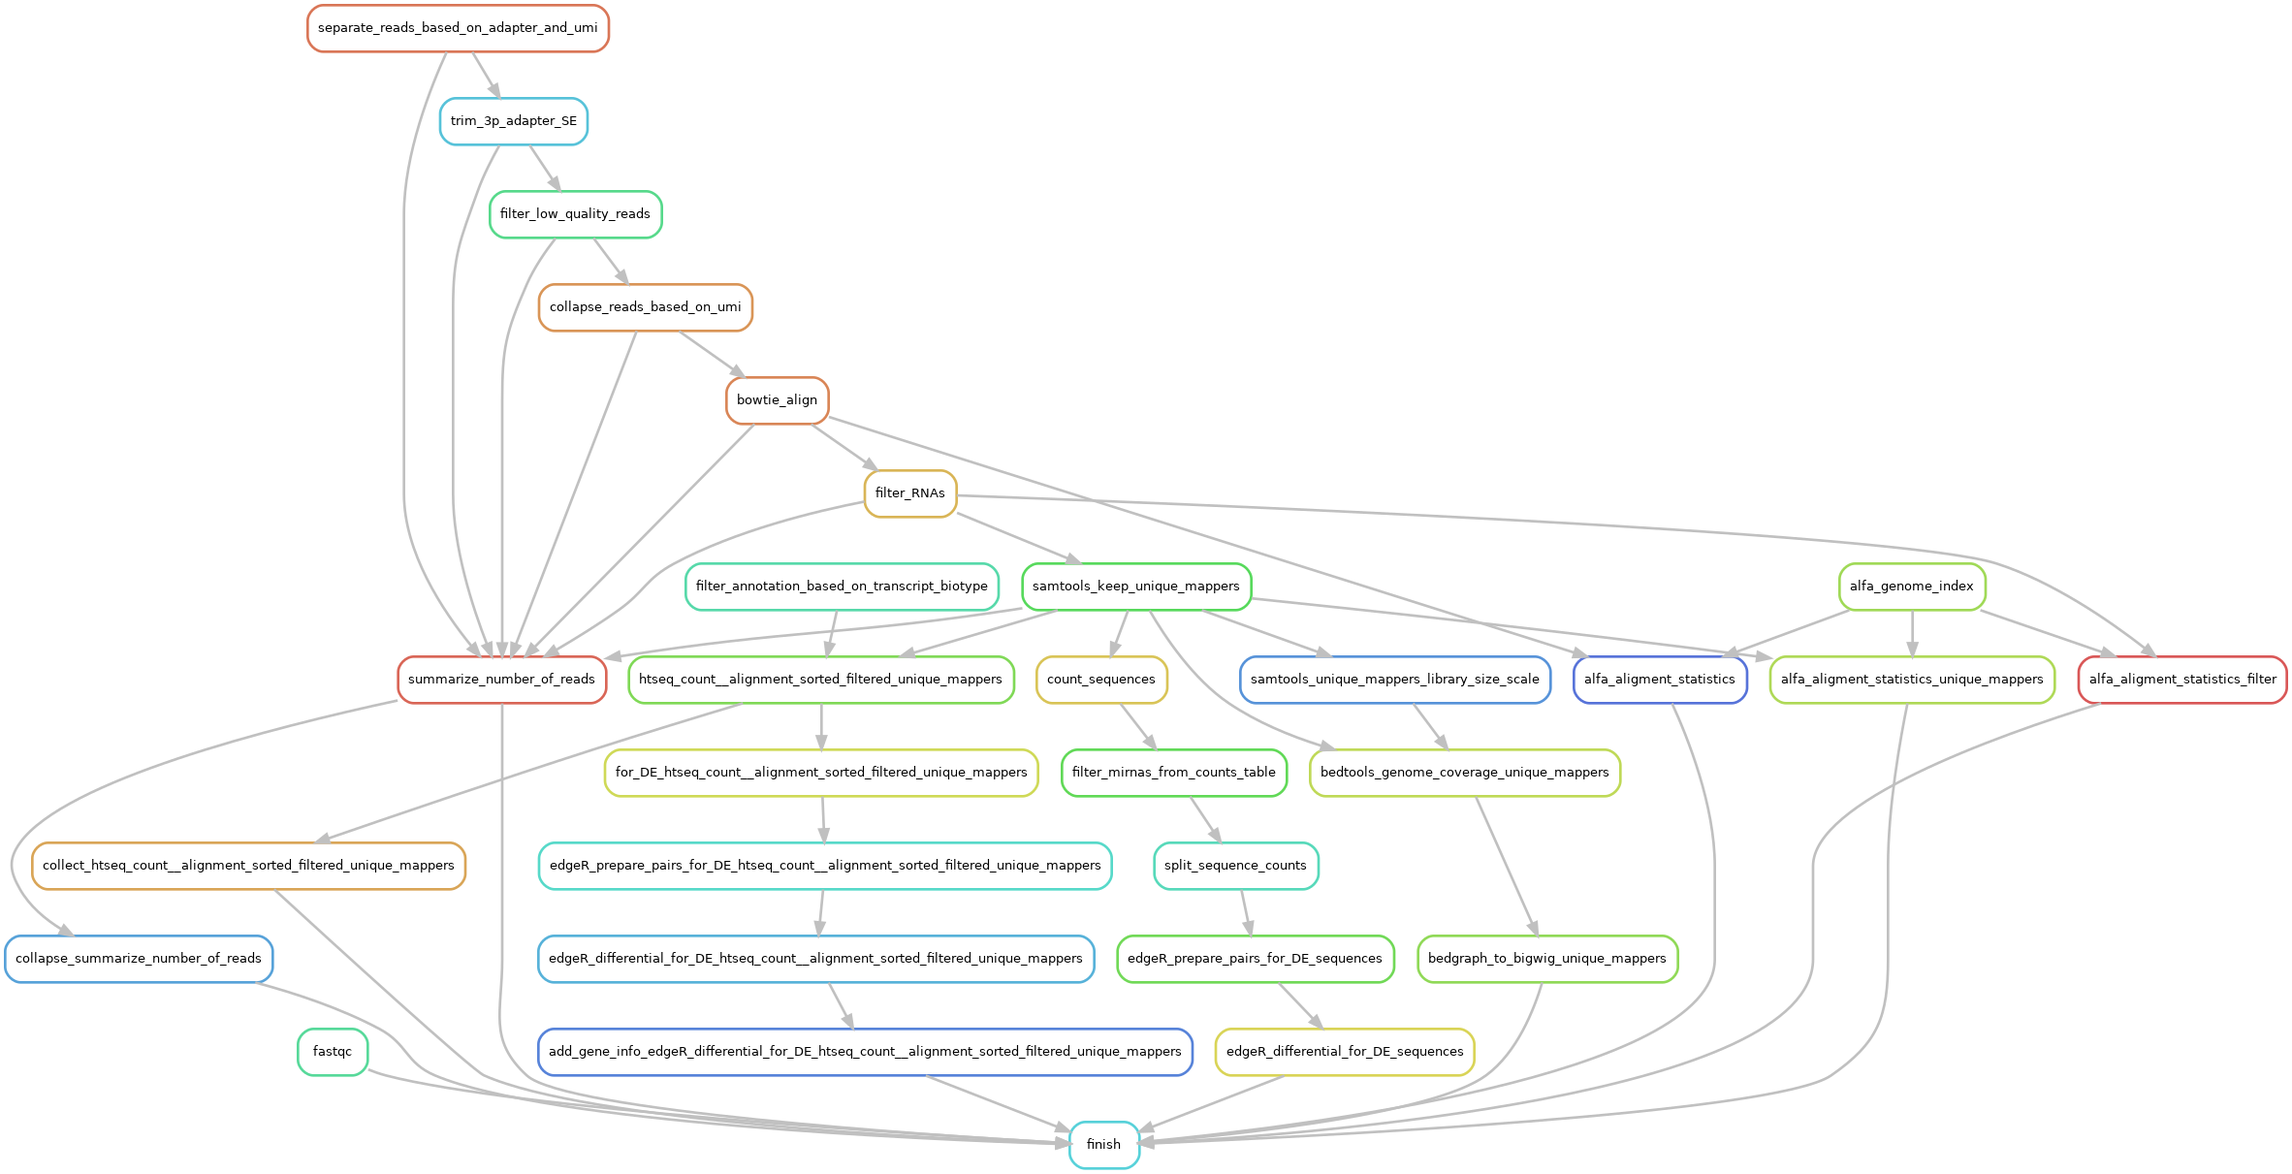
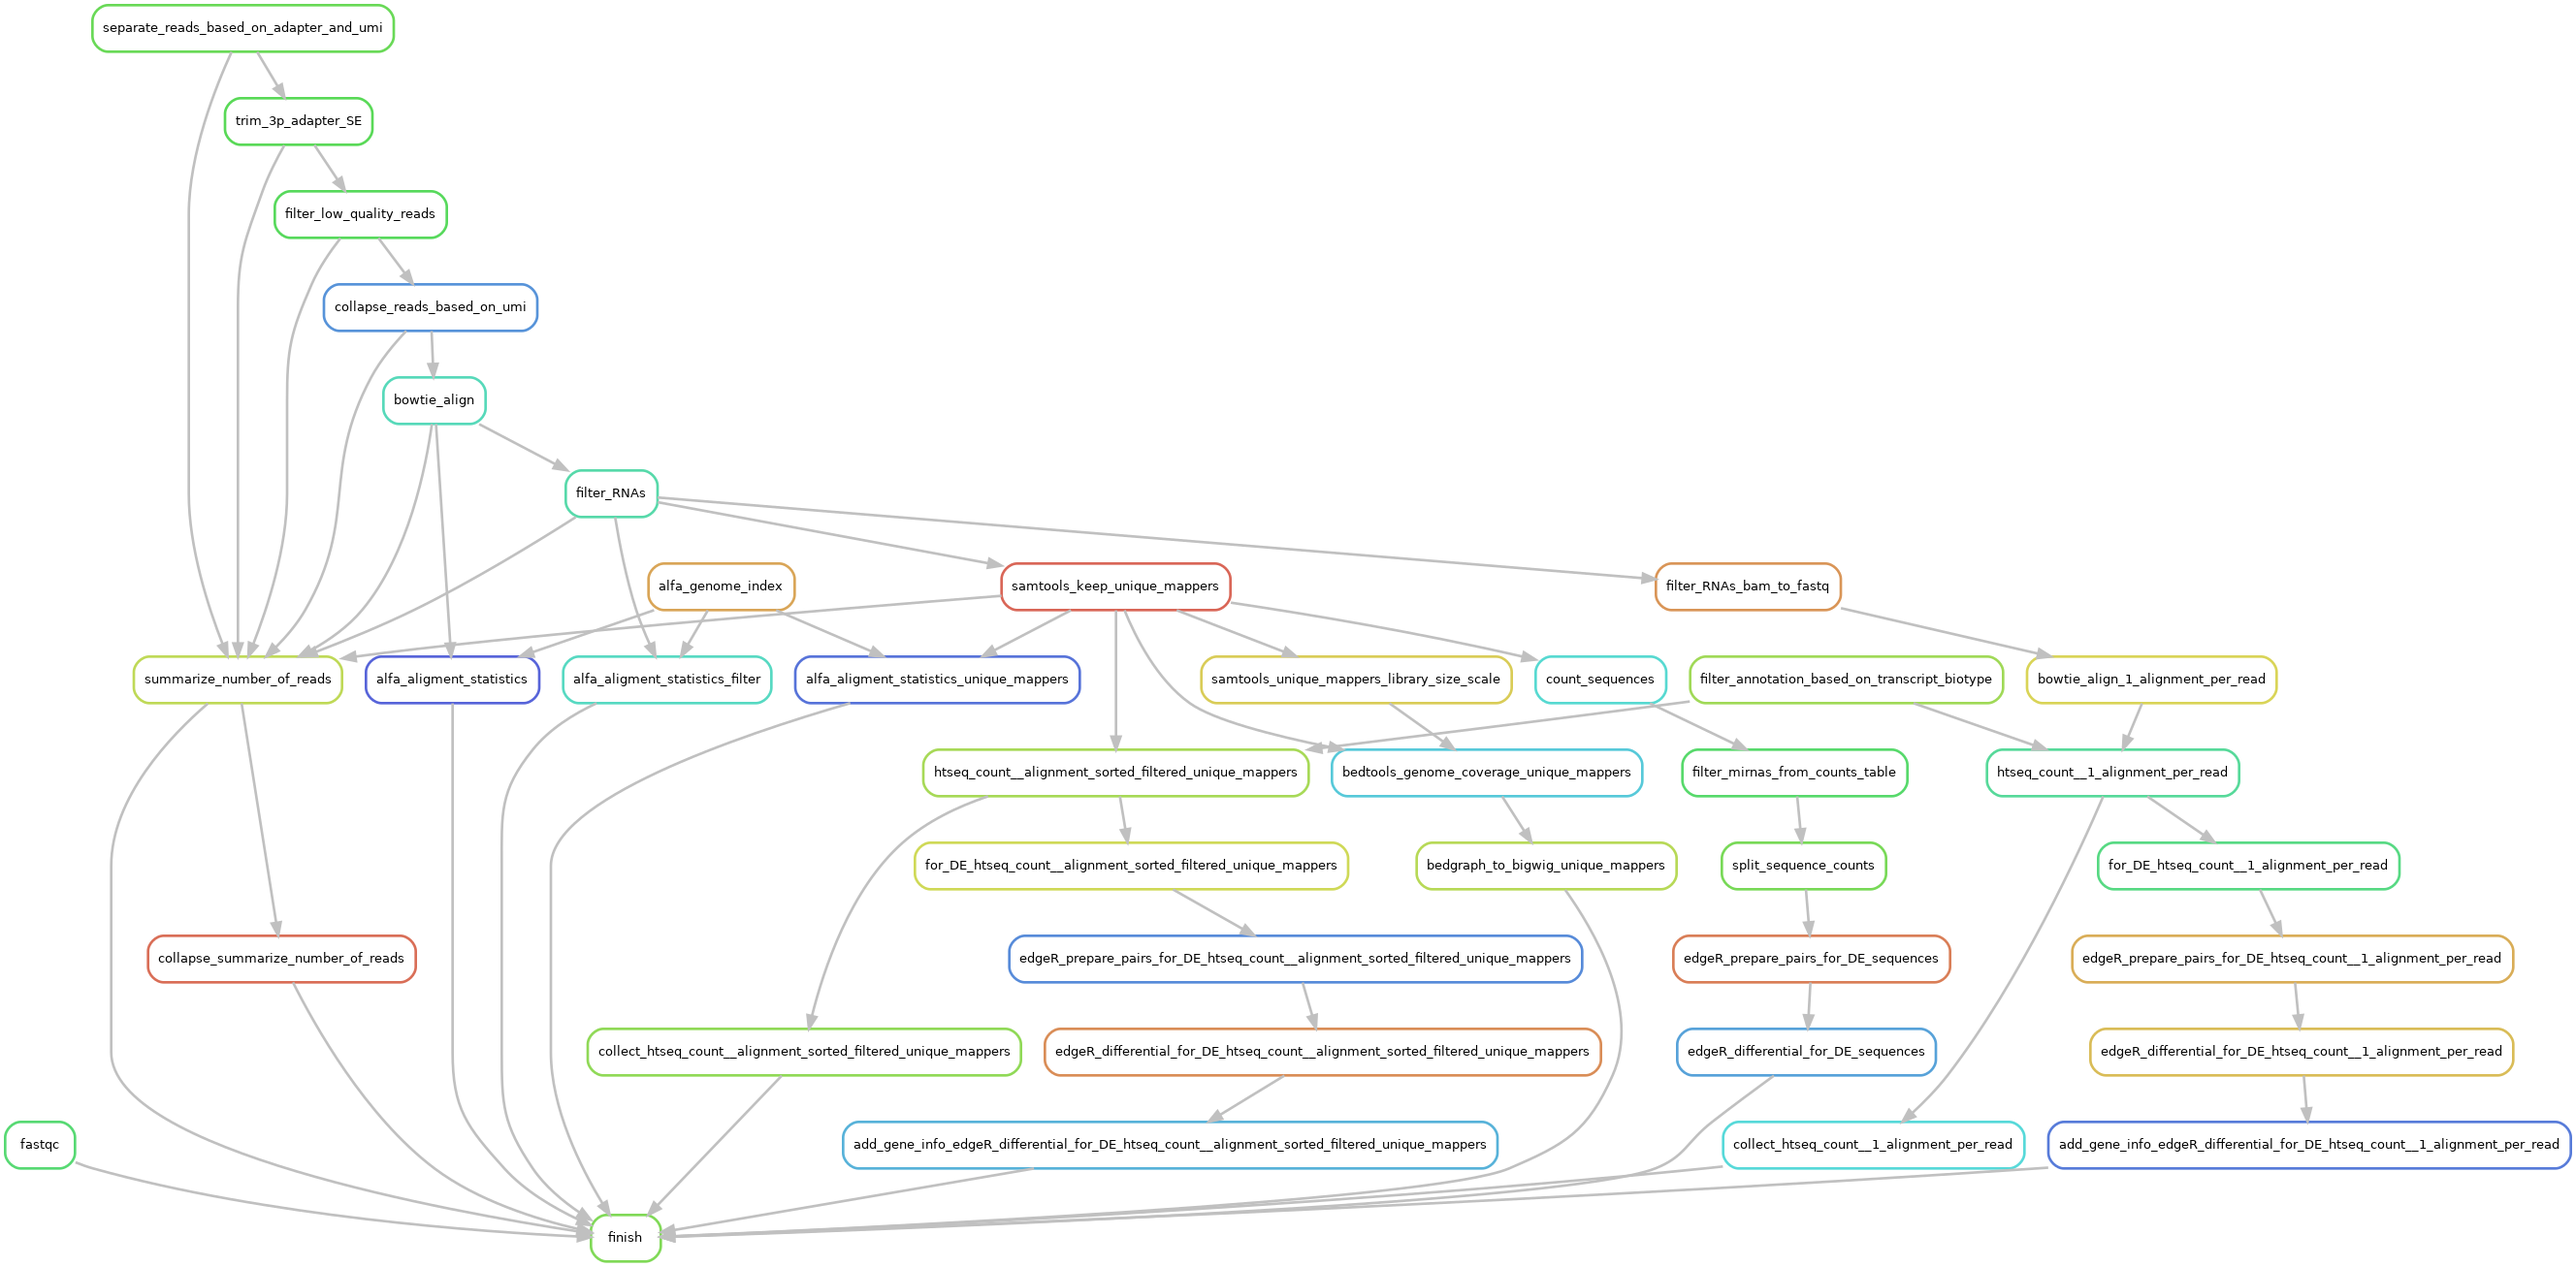
Add multimapper support for small RNA-seq. Reads are converted from bam -> fastq. Then reads are mapped again to the genome, but only 1 alignment per read is kept. Counting of reads and DE analysis is performed with htseq-count and edgeR.

diff --git a/scripts/bam2fastq.py b/scripts/bam2fastq.py
@@ -1,0 +1,115 @@
+#!/usr/bin/env python
+
+# _____________________________________________________________________________
+# -----------------------------------------------------------------------------
+# import needed (external) modules
+# -----------------------------------------------------------------------------
+
+import sys
+import os
+import HTSeq
+import pandas as pd
+from argparse import ArgumentParser, RawTextHelpFormatter
+
+# _____________________________________________________________________________
+# -----------------------------------------------------------------------------
+# Main function
+# -----------------------------------------------------------------------------
+
+
+def main():
+    """ Main function """
+
+    __doc__ = "Convert bowtie alignment file (BAM) to fastq. Multimappers are kept only once."
+
+    parser = ArgumentParser(
+        description=__doc__,
+        formatter_class=RawTextHelpFormatter
+    )
+
+    parser.add_argument(
+        "--bam",
+        dest="bam",
+        help="Alignment file in BAM (sorted and indexed) format. Output of bowtie.",
+        required=True,
+        metavar="FILE"
+    )
+
+    parser.add_argument(
+        "--fastq",
+        dest="fastq",
+        help="Output file in fastq format.",
+        required=True,
+        metavar="FILE"
+    )
+
+    parser.add_argument(
+        "-v",
+        "--verbose",
+        action="store_true",
+        dest="verbose",
+        default=False,
+        required=False,
+        help="Verbose"
+    )
+
+    # _________________________________________________________________________
+    # -------------------------------------------------------------------------
+    # get the arguments
+    # -------------------------------------------------------------------------
+    try:
+        options = parser.parse_args()
+    except(Exception):
+        parser.print_help()
+
+    if len(sys.argv) == 1:
+        parser.print_help()
+        sys.exit(1)
+
+    # parse alignment file and count
+    if options.verbose:
+        sys.stdout.write(
+            "Parsing bam file: {} and writing fastq file: {} {}".format(
+                str(options.bam),
+                str(options.fastq),
+                os.linesep
+            )
+        )
+
+    # observed_reads
+    observed_reads = {}
+
+    w = open(options.fastq, 'w')
+    bam = HTSeq.BAM_Reader(options.bam)
+    for read in bam:
+        if read.aligned:
+            read_name = read.read.name
+            read_sequence = read.read.seq.decode('utf-8')
+            read_quality = read.read.qualstr.decode('utf-8')            
+            if read_name not in observed_reads:
+                observed_reads[read_name] = read_name
+                w.write("@" + read_name + os.linesep)
+                w.write(read_sequence + os.linesep)
+                w.write("+" + os.linesep)
+                w.write(read_quality + os.linesep)
+    w.close()
+
+    if options.verbose:
+        sys.stdout.write(
+            "Done {}".format(
+                os.linesep
+            )
+        )
+
+# _____________________________________________________________________________
+# -----------------------------------------------------------------------------
+# Call the Main function and catch Keyboard interrups
+# -----------------------------------------------------------------------------
+
+
+if __name__ == '__main__':
+    try:
+        main()
+    except KeyboardInterrupt:
+        sys.stderr.write("User interrupt!" + os.linesep)
+        sys.exit(0)
